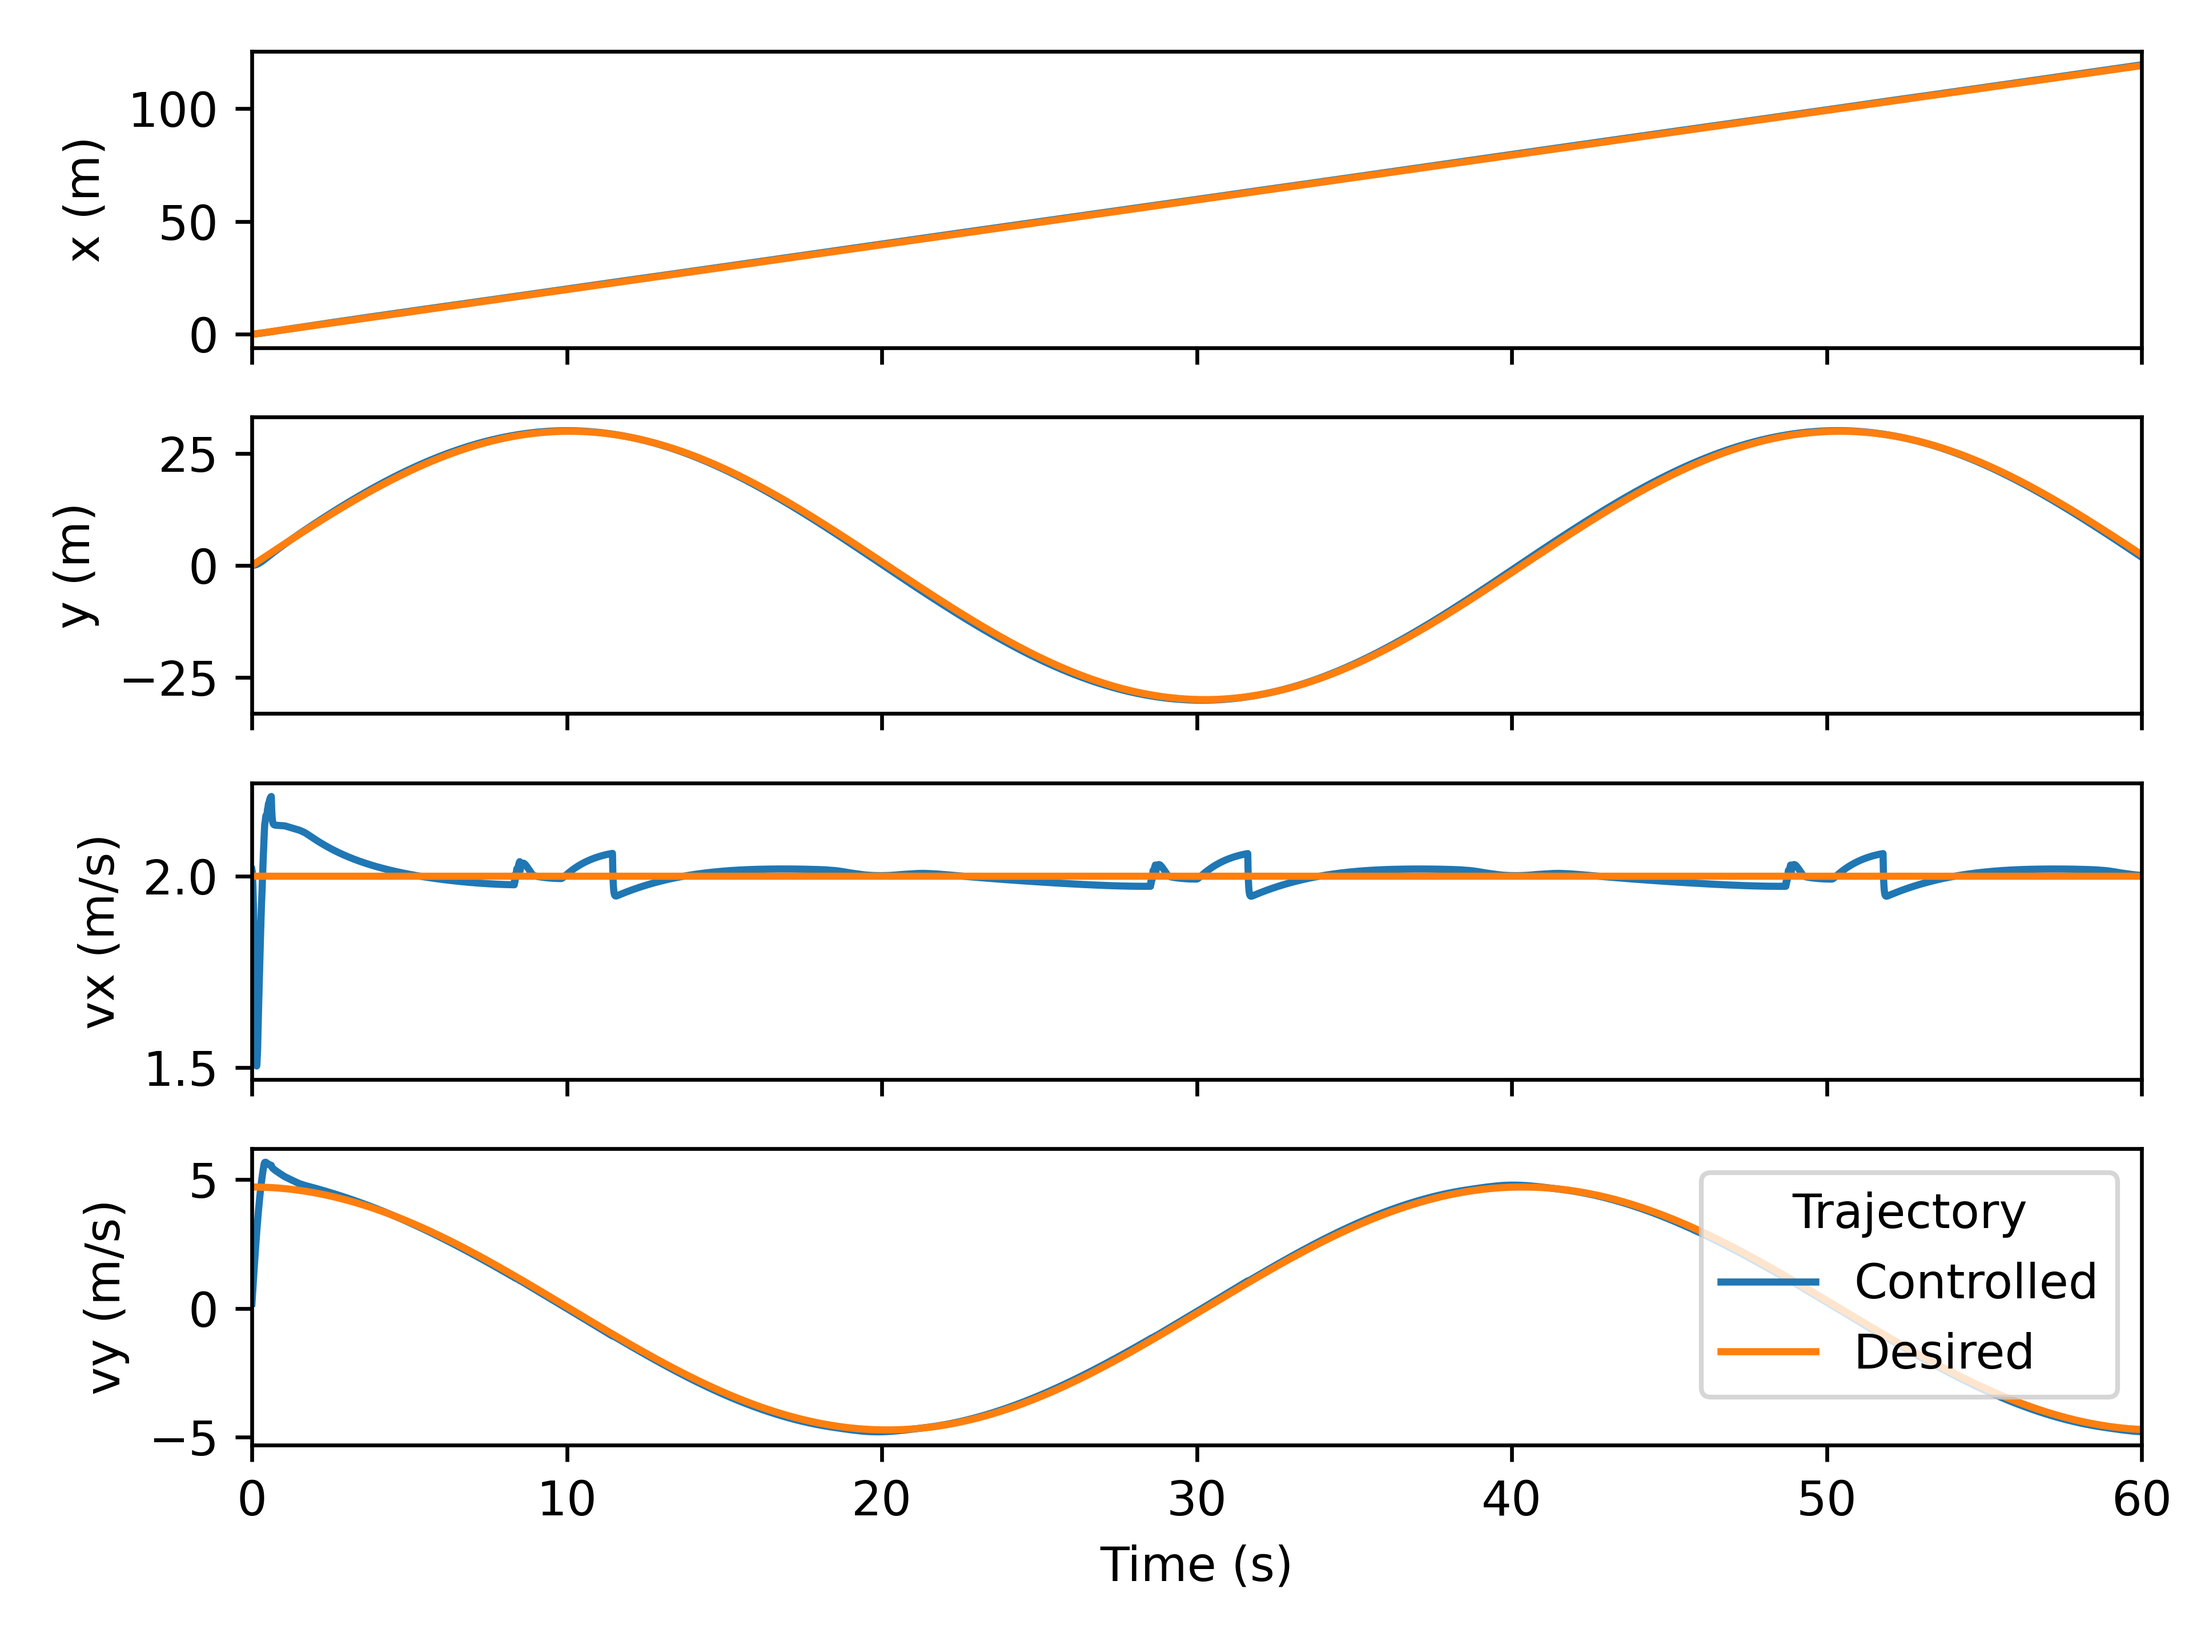
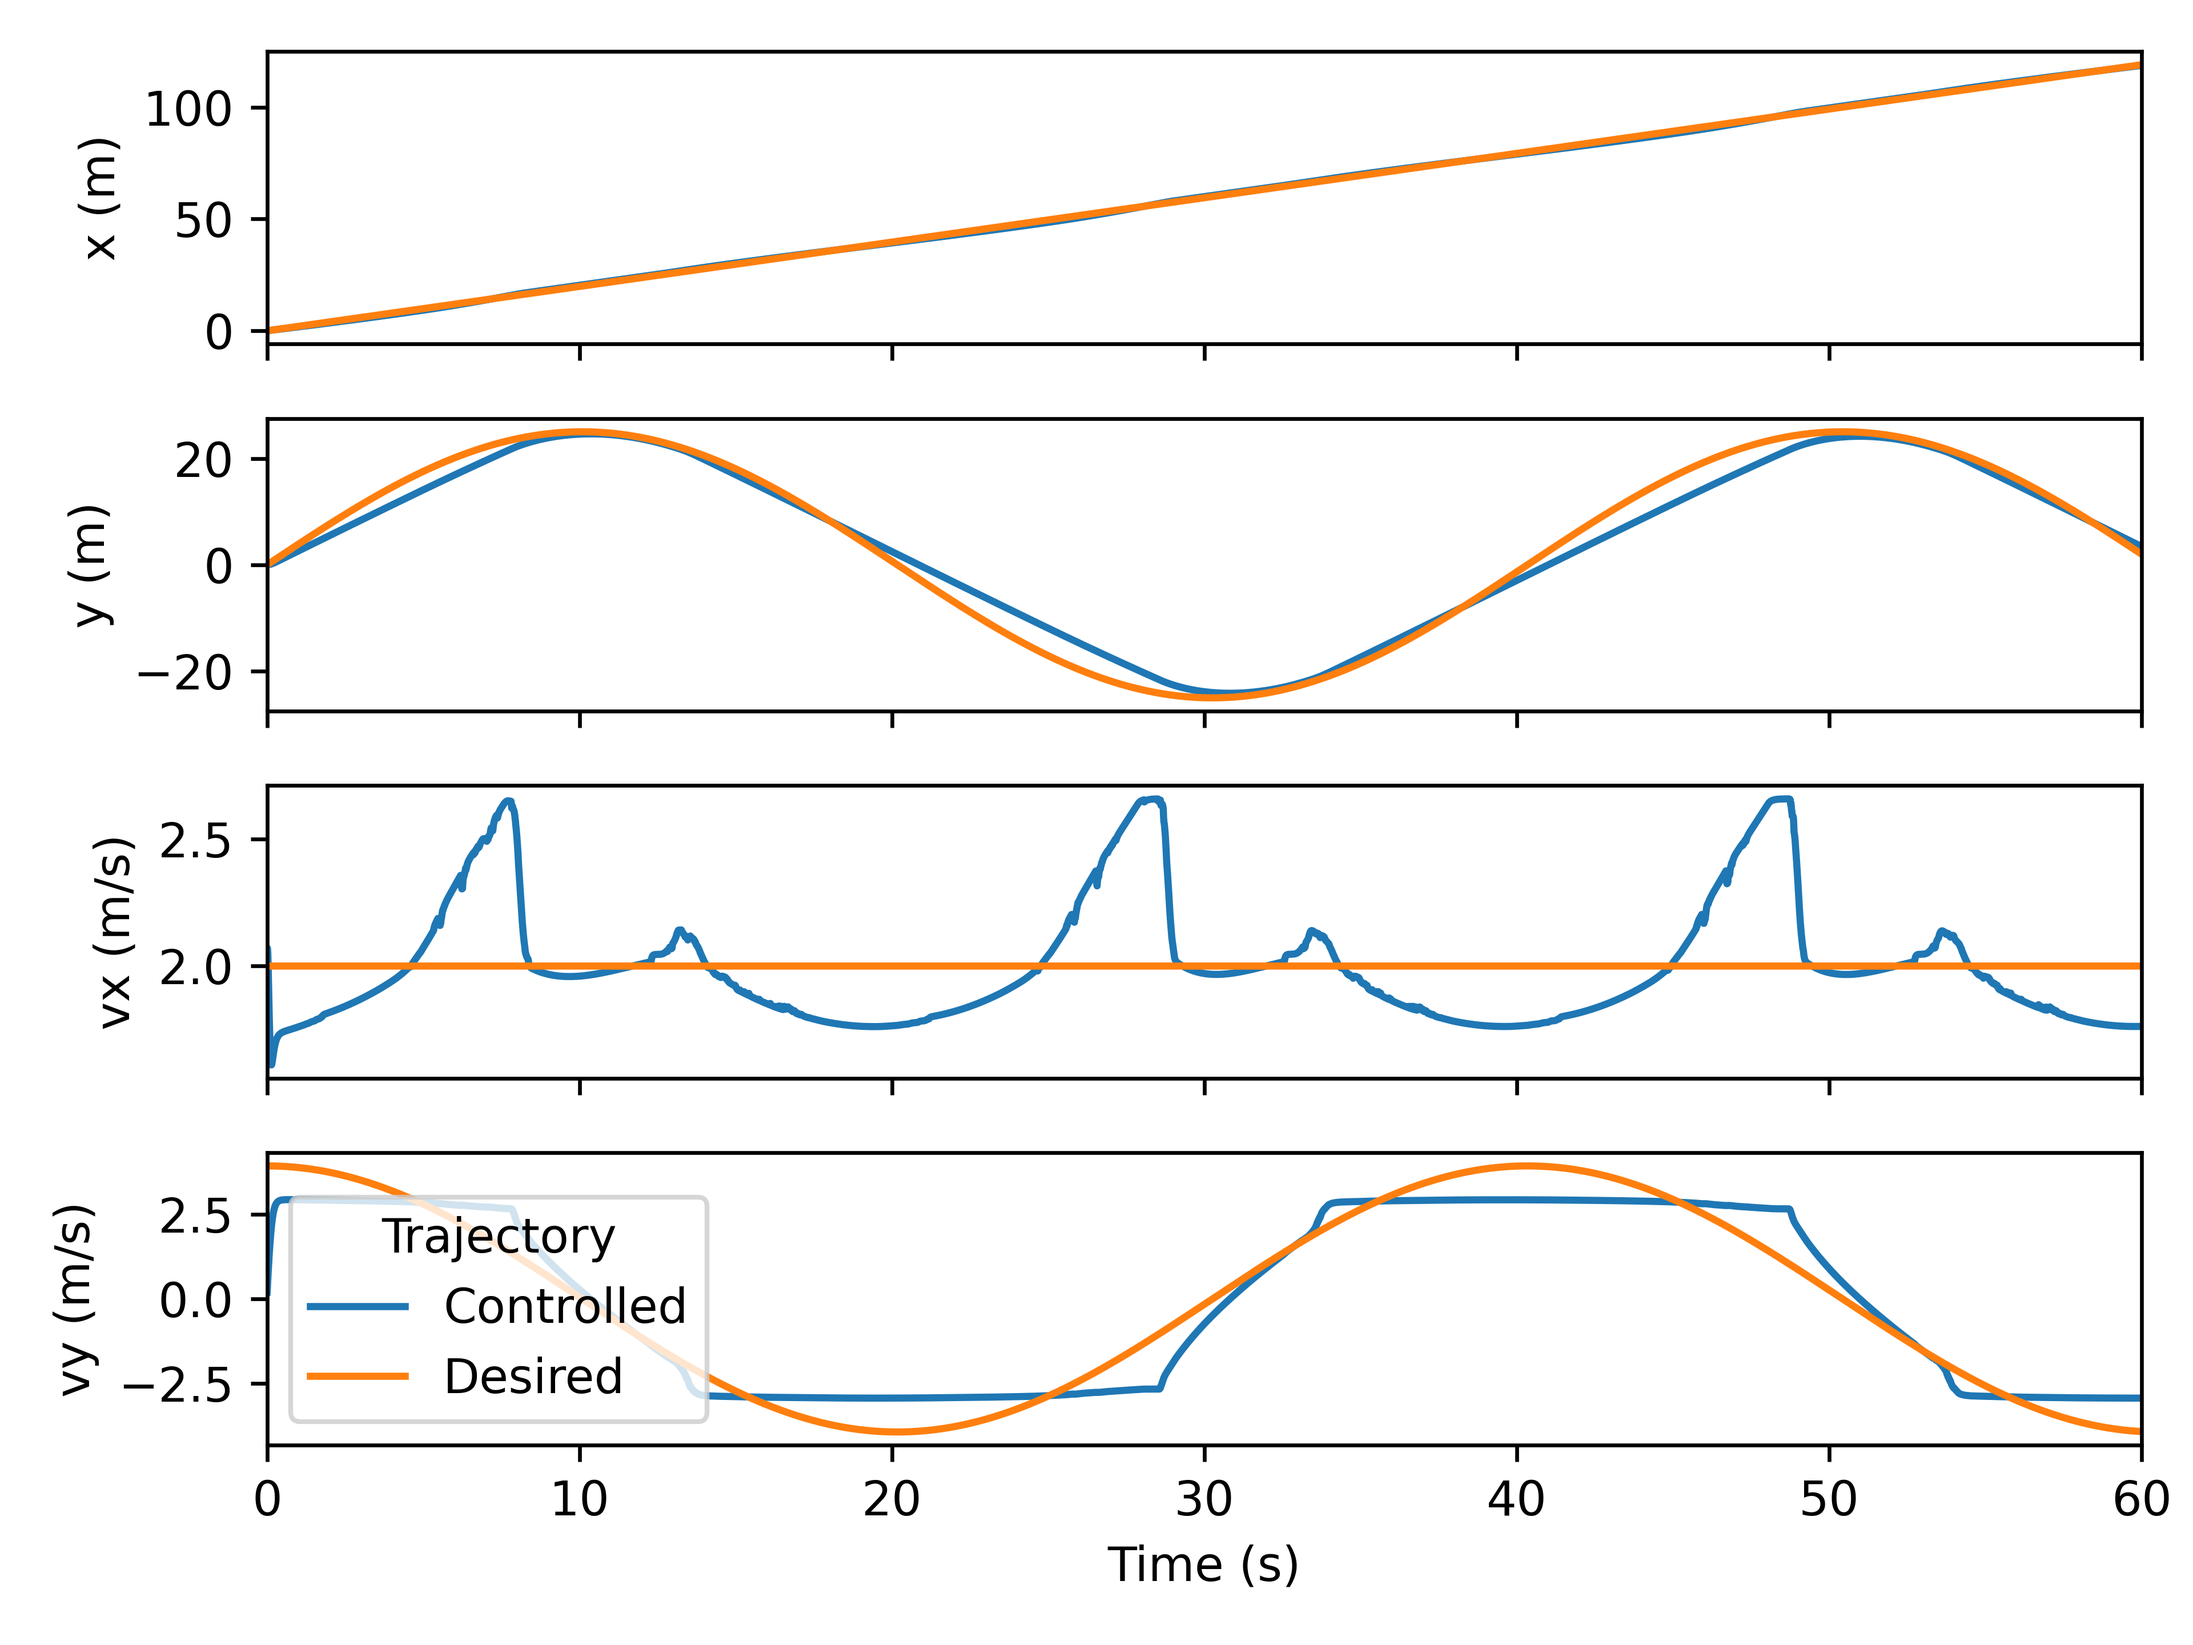
Fix code

diff --git a/MPC/NL_Drag.py b/MPC/NL_Drag.py
@@ -29,12 +29,12 @@ y_{k} = Cx_{k}
 
 Since we already have this discretization implementation and the following MPC architecture, the
 only addition needed is a function to linearize at each step.
-
 """
 
 # Import packages:
 import numpy as np
 import matplotlib.pyplot as plt
+import time
 from src.MPC import MPC
 from src.utils import *
 
@@ -93,13 +93,13 @@ v = 20
 dt = 0.01  # s
 t_end = 60  # s
 n_tsteps = int(t_end/dt)
-time = np.linspace(0, t_end, n_tsteps)
+time_vec = np.linspace(0, t_end, n_tsteps)
 time_ctrl = np.linspace(0, t_end, n_tsteps - f)
 
 #################### CHANGE THIS FOR NEW SYSTEM ####################
 
 # Problem parameters:
-c = 0.4  # Drag constant
+c = 2.  # Drag constant
 
 # Initial conditions:
 x0 = np.array([0, 0, 2, 0])
@@ -129,9 +129,9 @@ Q *= Q_scaler
 # Penalize error in objective:
 P = np.zeros((4, 4))
 P[0, 0] = 100   # px
-P[1, 1] = 1000   # py
+P[1, 1] = 100   # py
 P[2, 2] = 100   # vx
-P[3, 3] = 1000    # vy
+P[3, 3] = 100    # vy
 
 # --- Develop MPC problem ---
 # Fetch dimensions:
@@ -169,7 +169,7 @@ traj = np.zeros((n_tsteps, 4))
 
 # --- OBSTACLE AVOIDANCE ---
 # Parameters:
-amplitude = 30.0
+amplitude = 25.0
 omega = 2 * np.pi / 40.0  # Period of 40 seconds
 
 # Generate trajectory:
@@ -191,9 +191,16 @@ vy = x0[3]
 # Initialize matrices off of initial condition:
 A_cts, B_cts, C_cts = linearization(vx, vy, c)
 
+# Discretize initial matrices for MPC:
+A, B = discretize_system(A_cts, B_cts, dt)
+C = C_cts
+
 # Initialize states:
 x = np.zeros((n_tsteps - f, 4))
 x_k = x0.copy()
+
+# Start timer:
+start_time = time.perf_counter()
 
 # Use controller:
 for i in range(n_tsteps - f):
@@ -202,9 +209,9 @@ for i in range(n_tsteps - f):
     if cts_lin:
         A_cts, B_cts, C_cts = linearization(vx, vy, c)
 
-    # Discretize matrices for MPC:
-    A, B = discretize_system(A_cts, B_cts, dt)
-    C = C_cts
+        # Discretize matrices for MPC:
+        A, B = discretize_system(A_cts, B_cts, dt)
+        C = C_cts
 
     # Run MPC step:
     mpc.control_inputs(A, B, C)
@@ -224,6 +231,9 @@ for i in range(n_tsteps - f):
     # Fetch velocities (assumes that these are measurable):
     _, _, vx, vy = x_k
 
+# Calculate runtime:
+runtime = time.perf_counter() - start_time
+
 # --- Unpack, plot ---
 # Extract state estimates:
 y_des = []
@@ -236,6 +246,25 @@ for j in np.arange(n_tsteps - f):
 # Switch to arrays:
 y_des = np.array(y_des)
 ctrl = np.array(ctrl)
+
+# Compute errors and control cost:
+x_tail = x[:, :2]
+x_ref_tail = traj[:n_tsteps - f, :2]
+traj_error = np.sum((x_tail - x_ref_tail) ** 2)
+ctrl_cost = np.sum(ctrl ** 2)
+
+# Print results:
+print(f"\n{'='*50}")
+print(f"MPC Performance Metrics")
+print(f"{'='*50}")
+print(f"Prediction Horizon (f): {f}")
+print(f"Control Horizon (v):    {v}")
+print(f"Continuous Linearization: {cts_lin}")
+print(f"{'-'*50}")
+print(f"Runtime:           {runtime:.4f} s")
+print(f"Trajectory Error:  {traj_error:.2f}")
+print(f"Control Cost:      {ctrl_cost:.2f}")
+print(f"{'='*50}\n")
 
 # Plot graphs:
 plot_graphs(time_ctrl, x, y_des, ctrl, 'NL_Drag', np.array([u_min, u_max]))

diff --git a/MPC/MPC_Analysis.py b/MPC/MPC_Analysis.py
@@ -41,14 +41,15 @@ for k in range(len(files)):
 
 # Plot heatmaps:
 plot_heatmap(runtime_grid, v_unique, f_unique,"Computational Time [s]", cmap="plasma")
-plot_heatmap(traj_error_grid, v_unique, f_unique, "Trajectory Error (last 5s)", cmap="plasma")
+plot_heatmap(traj_error_grid, v_unique, f_unique, "Trajectory Error", cmap="plasma")
 plot_heatmap(ctrl_cost_grid, v_unique, f_unique,   "Control Effort", cmap="plasma")
 
 # --- CONTROLS AND TRAJECTORY ---
 # Select trajectories:
 selected_runs = [
-    (10, 10),
-    (20, 20),
+    (50, 50),
+    (80, 50),
+    (100, 50),
 ]
 
 # Define colors for trajectories:
@@ -78,14 +79,16 @@ axes_states = axes_states.flatten()
 # Define labels:
 state_labels = ["$p_x$ (m)", "$p_y$ (m)", "$v_x$ (m/s)", "$v_y$ (m/s)"]
 
-# Generate reference trajectory for plotting:
+# Generate reference trajectory for plotting (sinusoidal):
+amplitude = 30.0
+omega = 2 * np.pi / 40.0
 t_ref = np.linspace(0, time, len(t))
 ref_trajectory = np.zeros((len(t), 4))
 for i in range(len(t)):
     ref_trajectory[i, 0] = 4 * t_ref[i]  # px = 4*t
-    ref_trajectory[i, 1] = 30            # py = 30
-    ref_trajectory[i, 2] = 4             # vx = 4
-    ref_trajectory[i, 3] = 0             # vy = 0
+    ref_trajectory[i, 1] = amplitude * np.sin(omega * t_ref[i])  # py = A*sin(ωt)
+    ref_trajectory[i, 2] = 4  # vx = 4
+    ref_trajectory[i, 3] = amplitude * omega * np.cos(omega * t_ref[i])  # vy = A*ω*cos(ωt)
 
 # Plot:
 for (f, v, data), color in zip(runs, colors):
@@ -141,14 +144,15 @@ fig_ctrl.tight_layout(rect=[0, 0, 1, 0.95])
 # --- 2D X-Y TRAJECTORY PLOT ---
 fig_xy, ax_xy = plt.subplots(figsize=(10, 8))
 
+# Plot reference trajectory (sinusoidal):
+x_ref = ref_trajectory[:, 0]
+y_ref = ref_trajectory[:, 1]
+ax_xy.plot(x_ref, y_ref, 'k--', linewidth=2, label='Reference', zorder=1)
+
 # Plot trajectories:
 for (f, v, data), color in zip(runs, colors):
     x = data["trajectory"]
-    ax_xy.plot(x[:, 0], x[:, 1], color=color, linewidth=2, label=f"f={f}, v={v}")
-
-# Plot reference line (constant y = 30):
-x_max = max([data["trajectory"][-1, 0] for _, _, data in runs])
-ax_xy.plot([0, x_max], [30, 30], 'k--', linewidth=1.5, label='Reference')
+    ax_xy.plot(x[:, 0], x[:, 1], color=color, linewidth=2, label=f"f={f}, v={v}", zorder=2)
 
 # Set labels and formatting:
 ax_xy.set_xlabel("$p_x$ (m)", fontsize=12)

diff --git a/MPC/NL_Drag_Script.py b/MPC/NL_Drag_Script.py
@@ -54,12 +54,12 @@ n_tsteps = int(t_end / dt)
 time_vec = np.linspace(0, t_end, n_tsteps)
 
 # MPC Sweep parameters:
-f_list = [10, 20, 30, 40, 50, 60, 70, 80, 90, 100]
-v_list = [10, 20, 30, 40, 50, 60, 70, 80, 90, 100]
+f_list = [10, 20]
+v_list = [10, 20]
 
 # Problem parameters:
-c = 0.4
-x0 = np.array([0, 0, 4, 0])  # Start at origin with zero velocity
+c = 2.0
+x0 = np.array([0, 0, 4, 0])
 u_max = np.array([20, 20])
 u_min = np.array([-20, -20])
 cts_lin = True
@@ -78,14 +78,16 @@ P[1, 1] = 1000  # py
 P[2, 2] = 100  # vx
 P[3, 3] = 1000  # vy
 
-# Desired trajectory - Step input to (20, 20) with zero velocity:
+# Desired trajectory - Sinusoidal:
+amplitude = 30.0
+omega = 2 * np.pi / 40.0
 traj = np.zeros((n_tsteps, 4))
 for i in range(n_tsteps):
     t = dt * i
     traj[i, 0] = 4 * t
-    traj[i, 1] = 30
+    traj[i, 1] = amplitude * np.sin(omega * t)
     traj[i, 2] = 4
-    traj[i, 3] = 0
+    traj[i, 3] = amplitude * omega * np.cos(omega * t)
 
 # Dimensions:
 r = 4
@@ -138,6 +140,9 @@ with tqdm(total=total_runs, desc="Sweep Progress") as pbar:
             x_k = x0.copy()
             vx, vy = x_k[2], x_k[3]
 
+            # Initialize linearization:
+            A_cts, B_cts, C_cts = linearization(vx, vy, c)
+
             # Start timer:
             start_time = time.perf_counter()
 
@@ -163,10 +168,9 @@ with tqdm(total=total_runs, desc="Sweep Progress") as pbar:
             # Calculate runtime:
             runtime = time.perf_counter() - start_time
 
-            # Compute errors and control cost (use last 5 seconds):
-            window = int(5 / dt)
-            x_tail = x_hist[-window:, :2]
-            x_ref_tail = traj[-window:, :2]
+            # Compute errors and control cost (use entire trajectory):
+            x_tail = x_hist[:, :2]
+            x_ref_tail = traj[:n_tsteps - f, :2]
             traj_error = np.sum((x_tail - x_ref_tail) ** 2)
             ctrl_cost = np.sum(u_hist ** 2)
 

diff --git a/MPC/src/MPC.py b/MPC/src/MPC.py
@@ -84,18 +84,19 @@ class MPC(object):
 
             # From control horizon to prediction horizon:
             else:
+                a_power = np.eye(self.n)
                 for j in range(self.v):
                     if j == 0:
                         prev_sum = np.zeros((self.n, self.n))
                         for s in range(i - self.v + 2):
-                            a_power = np.linalg.matrix_power(self.A, j)
+                            a_power = np.linalg.matrix_power(self.A, s)
                             prev_sum = prev_sum + a_power
                         m_mat[i * self.r:(i + 1) * self.r, (self.v - 1) * self.m:self.v * self.m] = (
-                            self.C @ prev_sum @ self.B)
+                                self.C @ prev_sum @ self.B)
                     else:
                         a_power = a_power @ self.A
                         m_mat[i * self.r:(i + 1) * self.r, (self.v - 1 - j) * self.m:(self.v - j) * self.m] = (
-                            self.C @ a_power @ self.B)
+                                self.C @ a_power @ self.B)
 
         # Compute gain matrix:
         gain_mat = np.linalg.inv(m_mat.T @ self.W4 @ m_mat + self.W3) @ m_mat.T @ self.W4
